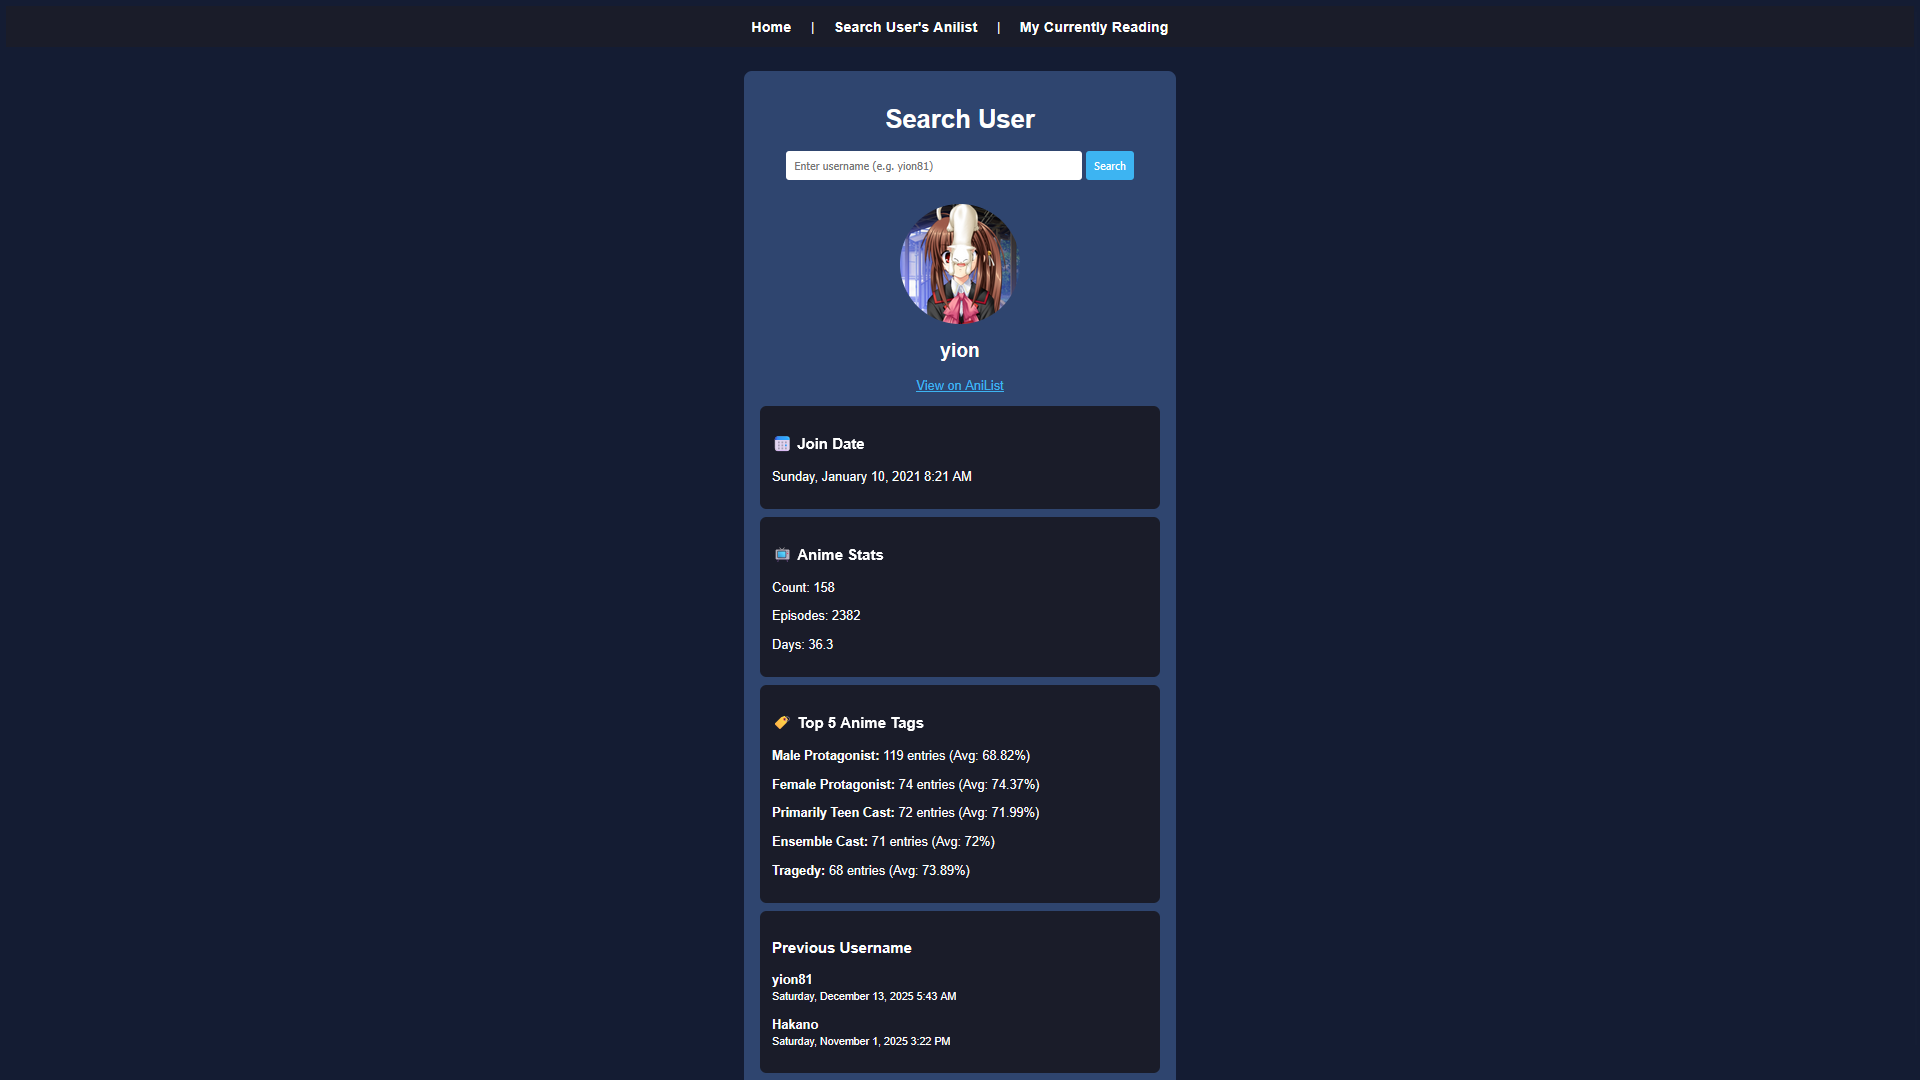
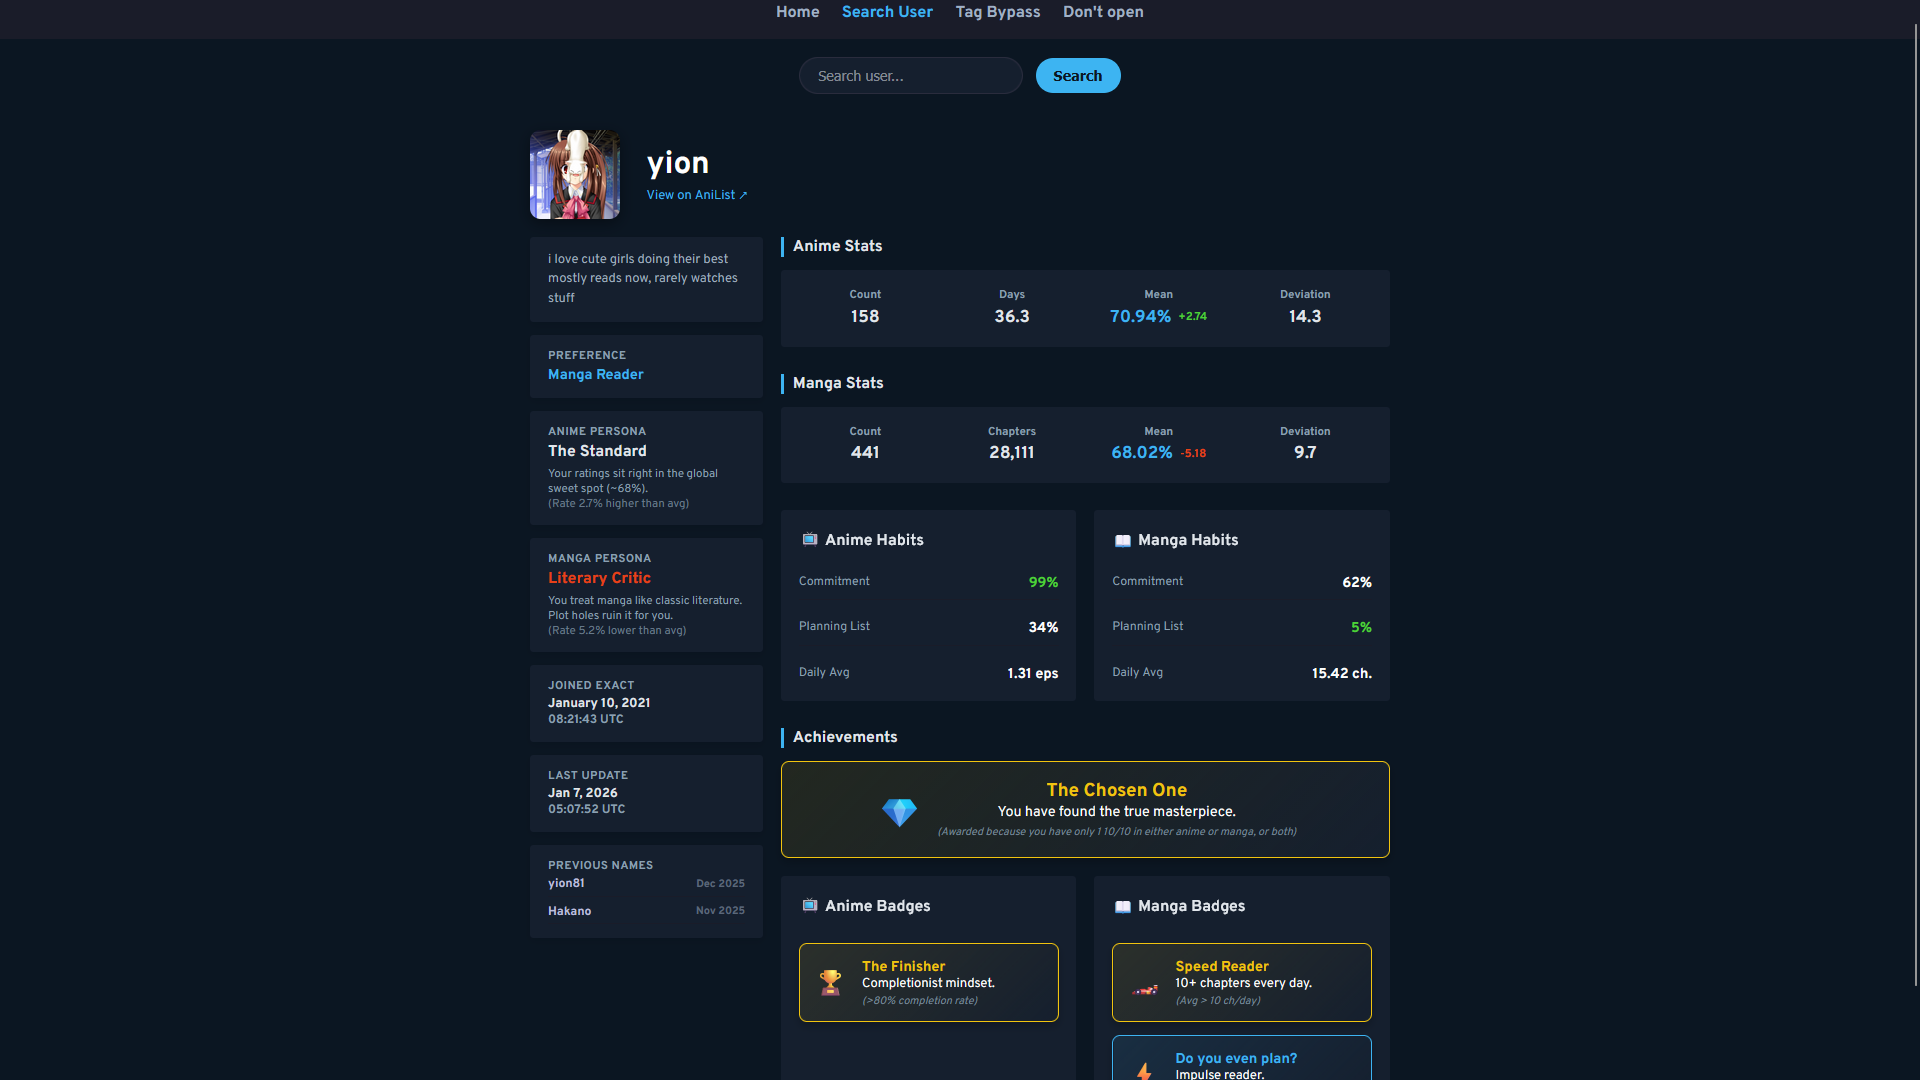
fixed readme

diff --git a/README.md b/README.md
@@ -8,11 +8,12 @@ A dynamic web application built with **Laravel (PHP)** that integrates with the 
 ## 🚀 Key Features
 
 * **User Profile Search:** Fetch real-time user data including avatars, bio, and watch statistics.
+* **AniList Tag Bypass:** A specialized search tool to discover top-rated Anime & Manga by tags, bypassing standard filter limitations.
 * **Manga Tracking Dashboard:** A grid layout displaying "Currently Reading" manga with progress bars and cover art.
 * **Dynamic Data Fetching:** Uses raw GraphQL queries sent via Laravel's HTTP Client.
-* **Robust Error Handling:** gracefully handles API timeouts and empty states (e.g., users with no history).
+* **Robust Error Handling:** Gracefully handles API timeouts and empty states (e.g., users with no history).
 * **Responsive UI:** Custom CSS Grid layout for manga cards and profile stats.
-* **Dynamic Routing:** Route links are dynamic.
+* **Dynamic Routing:** Route links are dynamic and scalable.
 
 ## 🛠 Tech Stack
 
@@ -23,9 +24,9 @@ A dynamic web application built with **Laravel (PHP)** that integrates with the 
 
 ## 📸 Screenshots
 
-| User Search Profile | Manga Progress Dashboard |
-|:-------------------:|:------------------------:|
-| ![Profile Page](screenshots/p1.png) | ![Manga Page](screenshots/p2.png) |
+| User Search Profile | Tag Bypass System | Manga Progress Dashboard |
+|:-------------------:|:-----------------:|:------------------------:|
+| ![Profile Page](screenshots/p1.png) | ![Tag Bypass](screenshots/p2.png) | ![Manga Page](screenshots/p3.png) |
 
 ## ⚙ How to Run Locally
 
@@ -36,15 +37,19 @@ If you want to clone and run this project on your own machine:
     git clone [https://github.com/yion81/anilist-app.git](https://github.com/yion81/anilist-app.git)
     cd anilist-app
     ```
-2.  **Edit the serviceProvier file**
-    Open App/Providers/AppServiceProvider.php, change 
+
+2.  **Edit the ServiceProvider file**
+    Open `App/Providers/AppServiceProvider.php`.
+    
+    Change:
     ```php
     URL::forceScheme('https');
     ```
-    to
+    To:
     ```php
     URL::forceScheme('http');
     ```
+    *(Note: This is only required for local development environment)*
 
 3.  **Install Dependencies**
     ```bash
@@ -70,9 +75,9 @@ If you want to clone and run this project on your own machine:
 This project was built to transition from Vanilla PHP to a structured Framework environment. Key learnings include:
 
 * **MVC Architecture:** Separating logic (Controllers) from presentation (Blade Views) and routing.
-* **Dynamic Routing:** Instead of creating a separate route for every single user (which would be impossible), We create one pattern that matches millions of users.
+* **Dynamic Routing:** Instead of creating a separate route for every single user, we created one pattern that matches millions of users.
 * **API Integration:** Moving from verbose `cURL` to Laravel's fluent `Http` client.
-* **Data sanitization:** Using Blade's `{{ }}` syntax to prevent XSS attacks compared to `echo`.
+* **Data Sanitization:** Using Blade's `{{ }}` syntax to prevent XSS attacks compared to `echo`.
 * **GraphQL:** Writing and structuring complex queries to fetch nested JSON data (Media -> Title -> English/Romaji).
 
 ## 📝 License
